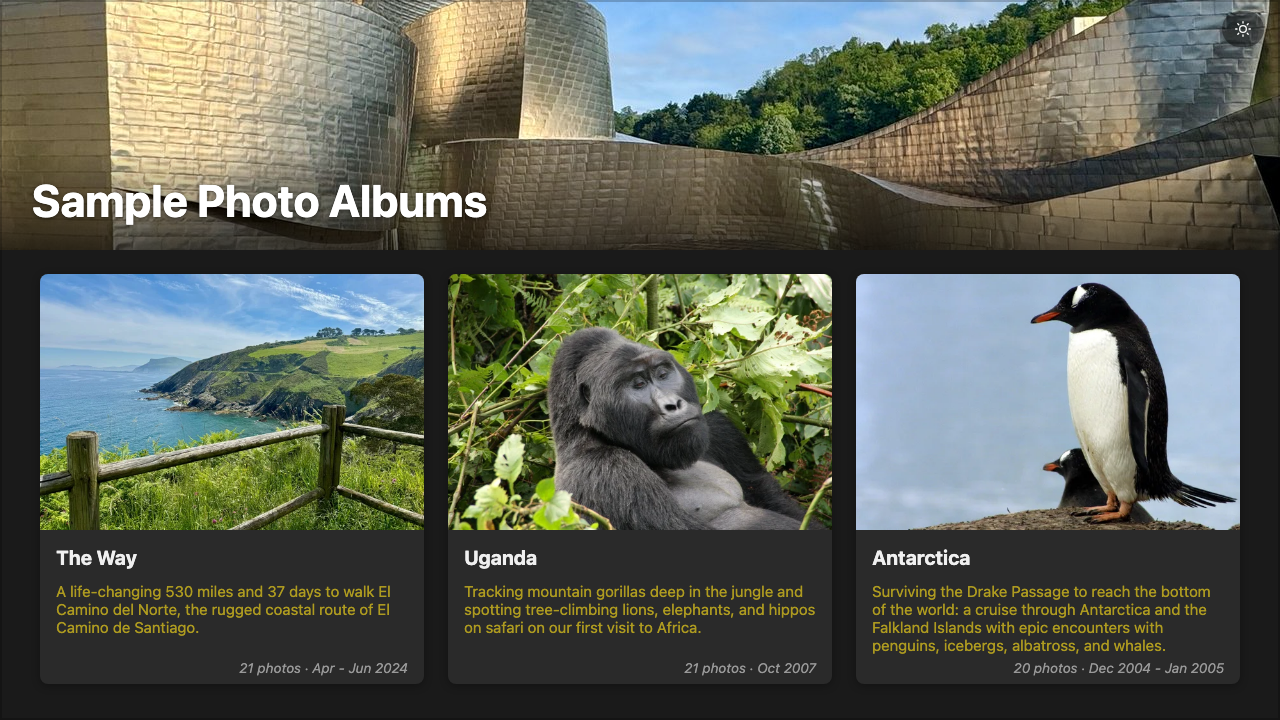
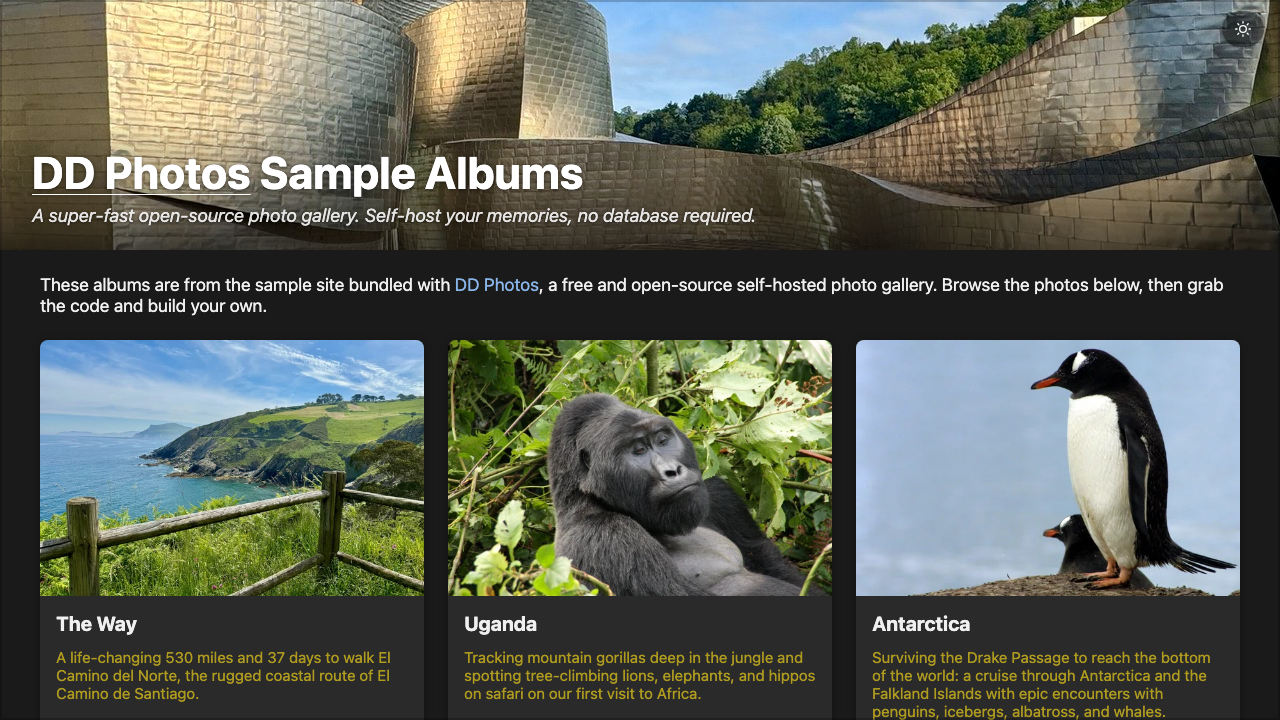
Docs, screenshots update

diff --git a/docs/HISTORY.md b/docs/HISTORY.md
@@ -1172,3 +1172,39 @@ const guard = () => {
 The `document.activeElement !== focusBtn` check avoids redundant focus events — `focus()` is only called when something has actually stolen focus. `preventScroll: true` ensures the focus call doesn't fight the scroll guard. The guard fires on the first frame (beating PhotoSwipe's restoration) and continues through the 700ms window (beating SvelteKit's async reset).
 
 Why not configure SvelteKit to skip scroll/focus restoration instead? SvelteKit's `noscroll` and `keepfocus` options apply to `goto()` calls, not to popstate navigations from `history.go(-1)`. And replacing `history.go(-1)` with `goto({ replaceState: true })` would leave a duplicate `/albums/slug` entry in the history stack — the user would need an extra back press to leave the album. Clean history is worth the guard loop.
+
+### 59. Home Page HTML Fields and Footer Redesign
+
+#### New `albums.yaml` Settings: `site_title_html`, `site_subtitle_html`, `site_overview_html`
+
+Added three optional site-level settings to `albums.yaml`:
+
+- **`site_title_html`** — HTML for the home page title (in the hero overlay or page header). Falls back to `site_name` when omitted. Allows links, emphasis, or any inline HTML.
+- **`site_subtitle_html`** — HTML rendered below the title in a smaller font.
+- **`site_overview_html`** — HTML rendered above the album cards, in a slightly larger font than album descriptions, using the primary text color.
+
+The pipeline change touched the usual four places: `AlbumsSettings` (YAML parsing in `albums_config.go`), `Config` (runtime build config in `config.go`), `SiteConfig` (JSON output in `json.go` / `WriteConfigJSON`), and the TypeScript `SiteConfig` interface in `web/src/lib/types.ts`.
+
+Frontend changes in `+page.svelte`:
+- Both hero and non-hero title paths use `{@html siteTitleHtml}` with fallback to `siteName`.
+- Subtitle rendered beneath the title in both paths.
+- Overview `<div>` rendered above the `.albums` grid.
+- All three use `:global()` CSS selectors to reach `<a>` tags injected via `{@html}` (Svelte's scoped CSS cannot see dynamically injected elements).
+- Links in the hero title: `color: inherit` (white), 1px underline offset 3px, slight opacity on hover.
+- Links in the overview: `color: var(--link-color)` (theme-aware blue), no underline at rest, underline on hover — matching the footer link convention.
+
+`sample/config/albums.yaml` updated with example values pointing to the DD Photos GitHub repo; `config/albums.example.yaml` and `README-DEV.md` updated to document the new fields.
+
+#### Footer Redesign
+
+Changed the footer "Built … with DD Photos" line to:
+
+```
+Built with joy by DD Photos on {date}  ⓘ
+```
+
+- **"DD Photos"** is now an `<a>` linking directly to `https://github.com/dougdonohoe/ddphotos` (opening in a new tab).
+- **ⓘ** is a 16px Feather-style info SVG button that opens the existing About dialog.
+- The info icon uses the same blue as the "DD Photos" link (`#5a8ec0` dark / `--link-color` light), with opacity fade on hover.
+- `margin-left: 0.5rem` on the icon button separates it visually from the date.
+- Space bar now activates album cards (keyboard accessibility): `onkeydown` handler on each `<a>` card calls `e.preventDefault()` + `e.currentTarget.click()` when Space is pressed.
